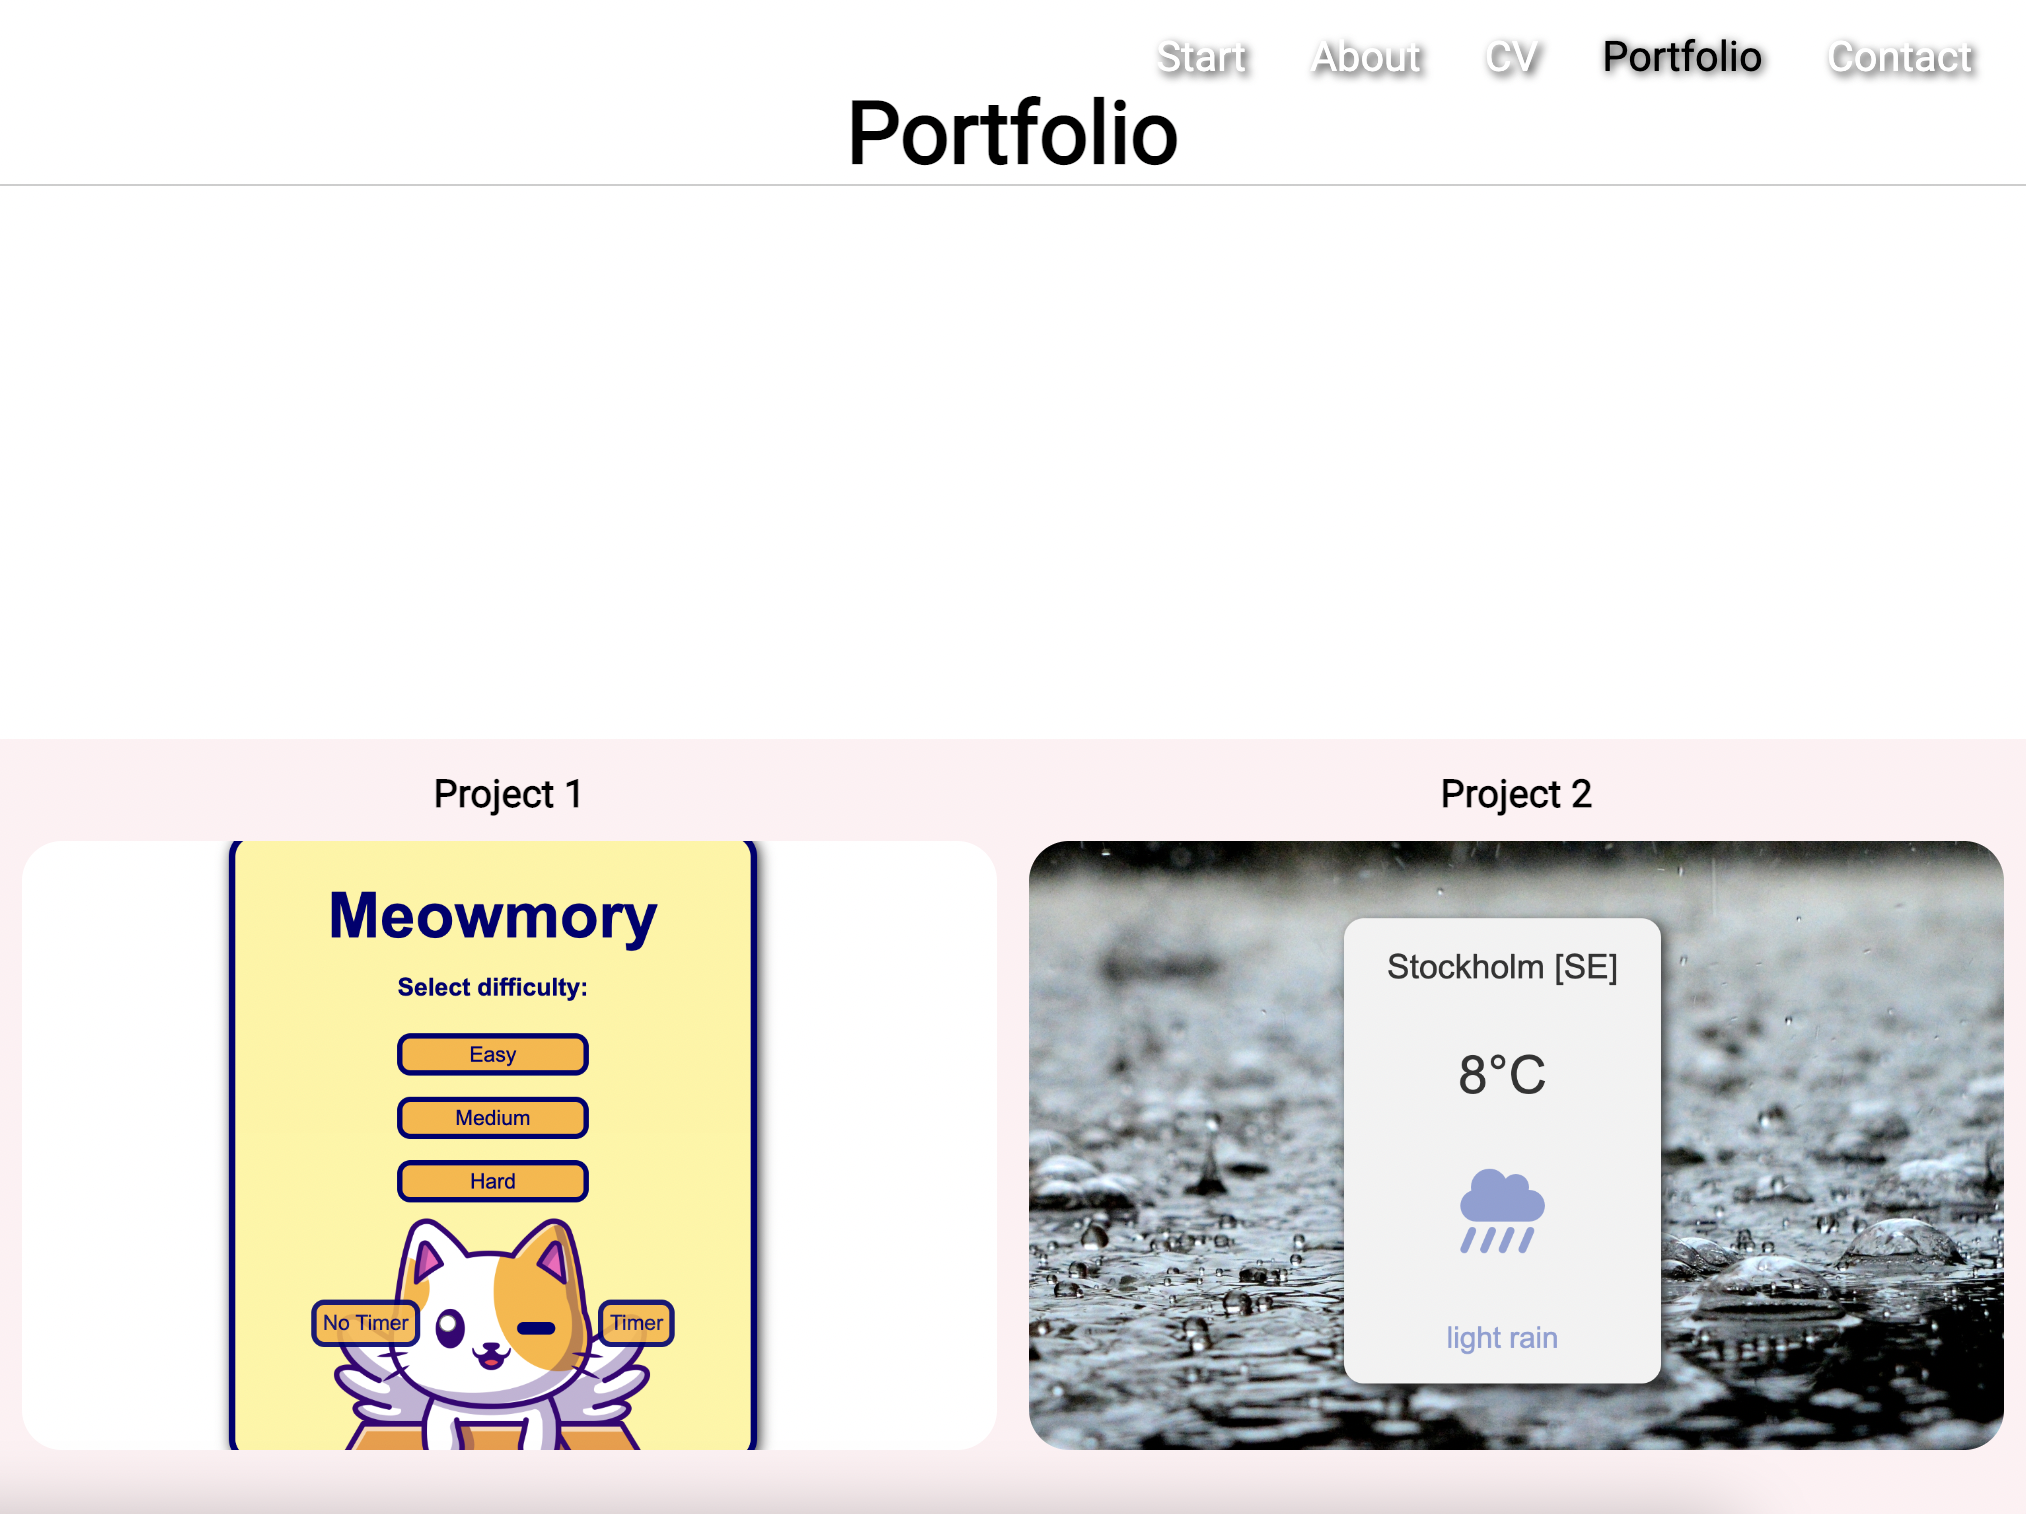
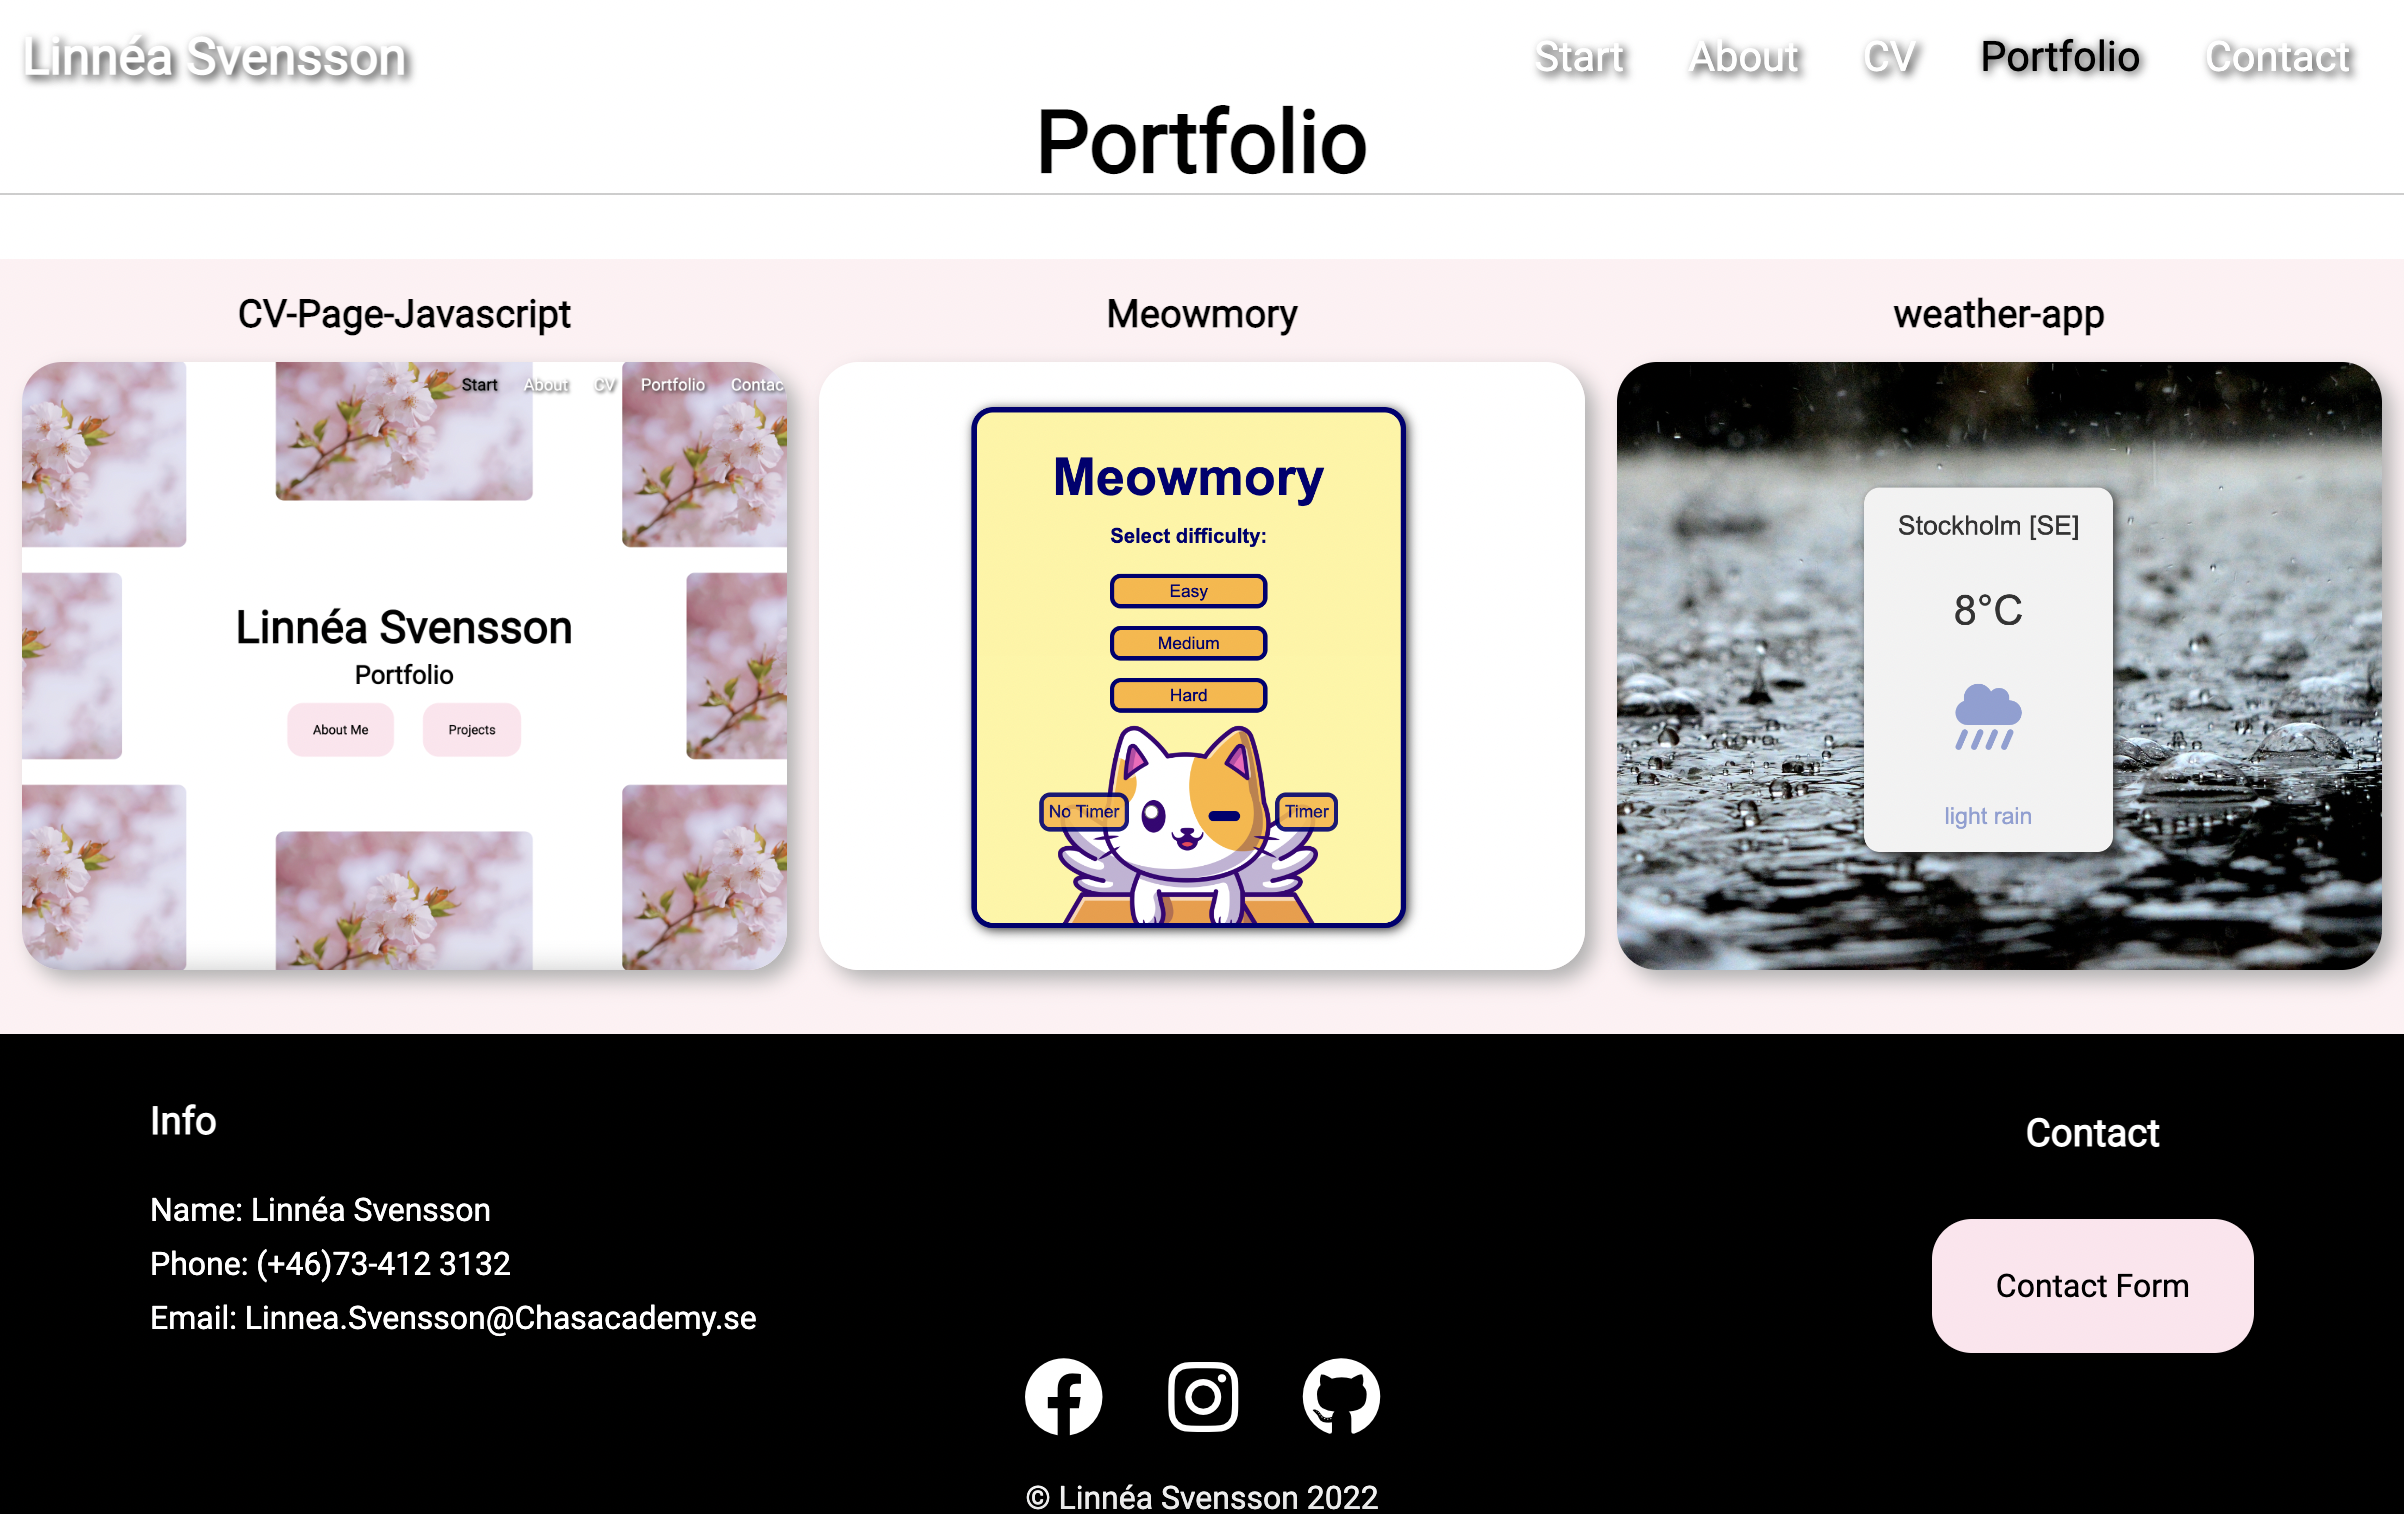
portfolio now fetches projects from github api

diff --git a/js/projects.js b/js/projects.js
@@ -1,10 +1,13 @@
-const gridContainer = document.querySelector('.portfolio-grid-container');
+const gridContainer = document.querySelector('.portfolio-grid-container'),
+      loading = document.querySelector('.loading');
 
 //Add github id here to insert into project gridContainer
-const gitProjects = [558828247, 562138870];
-let descArray = [];
+const gitProjects = [560837329, 558828247, 562138870];
+let descArray = [],
+    gitBtnArray = [],
+    siteBtnArray = [];
 
-gridContainer.innerHTML = 'Fetching projects from GitHub';
+loading.classList.toggle('hide');
 
 //Creates an empty modal
 function createEmptyModal() {
@@ -16,8 +19,8 @@ function createEmptyModal() {
       <div class="modal-col3">
         <div class="modal-text"></div>
         <div class="modal-btn-container">
-          <a target="_blank" class="bg-light modal-btn">GitHub link</a>
-          <a target="_blank" class="bg-light modal-btn">Go to site</a>
+          <a target="_blank" class="bg-light modal-btn github-btn">GitHub link</a>
+          <a target="_blank" class="bg-light modal-btn site-btn">Go to site</a>
         </div>
       </div>
     </div>
@@ -39,7 +42,7 @@ function toggleModal() {
 function createProjectDiv(nr, arr) {
   gridContainer.innerHTML += `
   <div class="project-box-container" id="${arr.name}">
-    <h5>Project ${nr}</h5>
+    <h5>${arr.name}</h5>
     <div class="img-box box${nr}"></div>
   </div>
   `;
@@ -50,6 +53,8 @@ function createProjectDiv(nr, arr) {
   `;
 
   descArray.push(arr.description);
+  gitBtnArray.push(arr.html_url);
+  siteBtnArray.push(`https://chasacademy-linnea-svensson.github.io/${arr.name}/`);
 }
 
 //Fetch github
@@ -76,7 +81,7 @@ fetchGithubApi()
         }
       }
     })
-
+    loading.classList.toggle('hide');
     return o;
 //Sets an eventlistener for each project that creates a modal on click
 }).then((o) => {
@@ -89,8 +94,11 @@ fetchGithubApi()
             modalContainer = document.querySelector('.modal-container'),
             preview = document.querySelector('#modal-previews'),
             modalImage = document.querySelector('.modal-col1'),
-            modalDescription = document.querySelector('.modal-col3');
+            modalDescription = document.querySelector('.modal-col3'),
+            gitBtn = document.querySelector('.github-btn'),
+            siteBtn = document.querySelector('.site-btn');
 
+      //Set preview image
       for(let i = 0; i < 3; i++) {
         preview.innerHTML += `
         <div class="modal-prev ${project.getAttribute('id')}">
@@ -100,11 +108,22 @@ fetchGithubApi()
         modalImage.style.background = `url('https://raw.githubusercontent.com/ChasAcademy-Linnea-Svensson/${project.getAttribute('id')}/main/img/preview/1.png') no-repeat center center/cover`;
       }
 
+      const modalPrev = document.querySelectorAll('.modal-prev');
+
+      //Sets background if preview img is clicked
+      modalPrev.forEach((prev, index) => {
+        modalPrev[index].addEventListener('click', ()=> {
+          modalImage.style.background = `url(${prev.firstElementChild.src}) no-repeat center center/cover`;
+        });
+      })
+
       // Set description
       modalDescription.insertAdjacentText("afterbegin",
-        descArray[index])
+        descArray[index]);
 
-      console.log(index);
+      //Set button links
+      gitBtn.href = gitBtnArray[index];
+      siteBtn.href = siteBtnArray[index];
             
       //Close down modal and remove from body
       exit.addEventListener('click', () => {
@@ -116,6 +135,9 @@ fetchGithubApi()
         exit.parentElement.parentElement.remove();
       })
       modalContainer.addEventListener('click', (e) => {
+        e.stopImmediatePropagation();
+      })
+      preview.addEventListener('click', (e) => {
         e.stopImmediatePropagation();
       })
     })

diff --git a/portfolio.html b/portfolio.html
@@ -24,34 +24,17 @@
   </nav>
   <section class="portfolio">
     <h2 class="intro-h2 border-bot">Portfolio</h2>
-    <div class="animated-portfolio-preview mobile-hide">
-      <div class="preview-img-container">
-        <!-- <div class="img-box">
-          <a href="#pop-up6"><img src="img/Portfolio/Project-6/1.jpg" alt=""></a>
-        </div>
-        <div class="img-box">
-          <a href="#pop-up1"><img src="img/Portfolio/Project-1/1.jpg" alt=""></a>
-        </div>
-        <div class="img-box">
-          <a href="#pop-up2"><img src="img/Portfolio/Project-2/1.jpg" alt=""></a>
-        </div>
-        <div class="img-box">
-          <a href="#pop-up3"><img src="img/Portfolio/Project-3/1.jpg" alt=""></a>
-        </div>
-        <div class="img-box">
-          <a href="#pop-up4"><img src="img/Portfolio/Project-4/1.jpg" alt=""></a>
-        </div>
-        <div class="img-box">
-          <a href="#pop-up5"><img src="img/Portfolio/Project-5/1.jpg" alt=""></a>
-        </div>
-        <div class="img-box">
-          <a href="#pop-up6"><img src="img/Portfolio/Project-6/1.jpg" alt=""></a>
-        </div>
-        <div class="img-box">
-          <a href="#pop-up1"><img src="img/Portfolio/Project-1/1.jpg" alt=""></a>
-        </div> -->
-      </div>
+    <div class="loading hide">
+      <img src="img/Loading_icon.gif">
     </div>
+    <!-- Future plans -->
+    <!-- <div class="animated-portfolio-preview mobile-hide">
+      <div class="preview-img-container">
+        <div class="img-box">
+          <a href="#pop-up6"><img src="img/Portfolio/Project-6/1.jpg" alt=""></a>
+        </div>
+      </div>
+    </div> -->
     <div class="portfolio-grid-container bg-lighter">
     </div>
   </section>

diff --git a/css/style.css b/css/style.css
@@ -449,9 +449,9 @@ nav ul li a:hover {
 
 .modal-container {
   position: relative;
-  top: -4rem;
+  top: -3rem;
   height: 70%;
-  width: 80%;
+  width: 35rem;
   background: #fff;
   border-radius: 20px;
   overflow: hidden;
@@ -466,10 +466,10 @@ nav ul li a:hover {
 
 .modal-col2 {
   background: #ffffffd0;
-  height: 8rem;
+  height: 7.5rem;
   width: 100%;
   display: flex;
-  align-items: flex-end;
+  align-items: center;
   padding: 1rem;
   justify-content: space-around;
   position: fixed;
@@ -511,6 +511,7 @@ nav ul li a:hover {
   align-items: center;
   justify-content: center;
   overflow: hidden;
+  box-shadow: rgb(139, 139, 139) 5px 5px 10px;
 }
 
 .modal-prev img {
@@ -532,6 +533,23 @@ nav ul li a:hover {
   background: rgba(255, 255, 255, 0.5);
   border-radius: 5px;
   border: #333 solid 1px;
+}
+
+#modal-previews {
+  cursor: default;
+}
+
+.loading {
+  background: #fff;
+  height: 100%;
+  width: 100%;
+  display: flex;
+  align-items: center;
+  justify-content: center;
+}
+
+.hide {
+  display: none;
 }
 
 /** Footer **/
@@ -955,7 +973,7 @@ footer .copyright {
 .project-box-container .img-box {
   height: 20rem;
   width: 100%;
-  background: #333;;
+  box-shadow: #b0b0b0 5px 5px 10px;
 }
 
 /** Animated Preview **/
